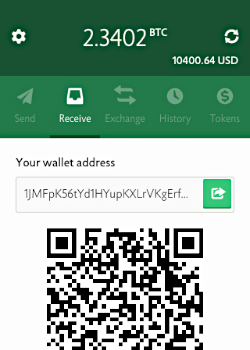
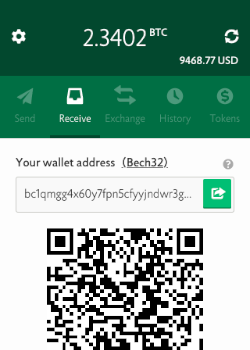
Update Coin wallet

diff --git a/_wallets/coin.md b/_wallets/coin.md
@@ -16,7 +16,7 @@ platform:
         link: "https://play.google.com/store/apps/details?id=com.coinspace.app"
         source: "https://github.com/CoinSpace/CoinSpace"
         screenshot: "coinmobile.png"
-        features: "legacy_addresses"
+        features: "legacy_addresses segwit bech32"
         check:
           control: "checkgoodcontrolfull"
           validation: "checkfailvalidationcentralized"
@@ -33,7 +33,7 @@ platform:
         link: "https://itunes.apple.com/us/app/coinspace-bitcoin-wallet/id980719434?mt=8"
         source: "https://github.com/CoinSpace/CoinSpace"
         screenshot: "coinmobile.png"
-        features: "legacy_addresses"
+        features: "legacy_addresses segwit bech32"
         check:
           control: "checkgoodcontrolfull"
           validation: "checkfailvalidationcentralized"
@@ -53,7 +53,7 @@ platform:
         link: "https://coin.space"
         source: "https://github.com/CoinSpace/CoinSpace"
         screenshot: "coinweb.png"
-        features: "legacy_addresses"
+        features: "legacy_addresses segwit bech32"
         check:
           control: "checkgoodcontrolfull"
           validation: "checkfailvalidationcentralized"
